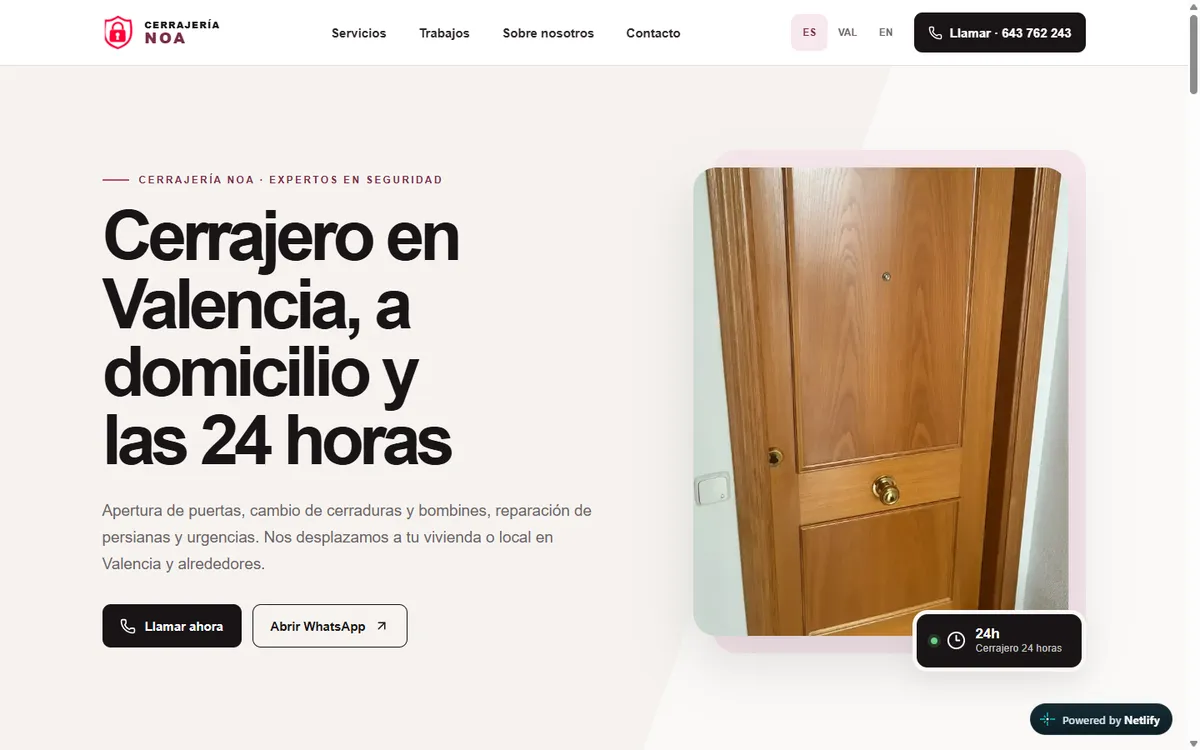
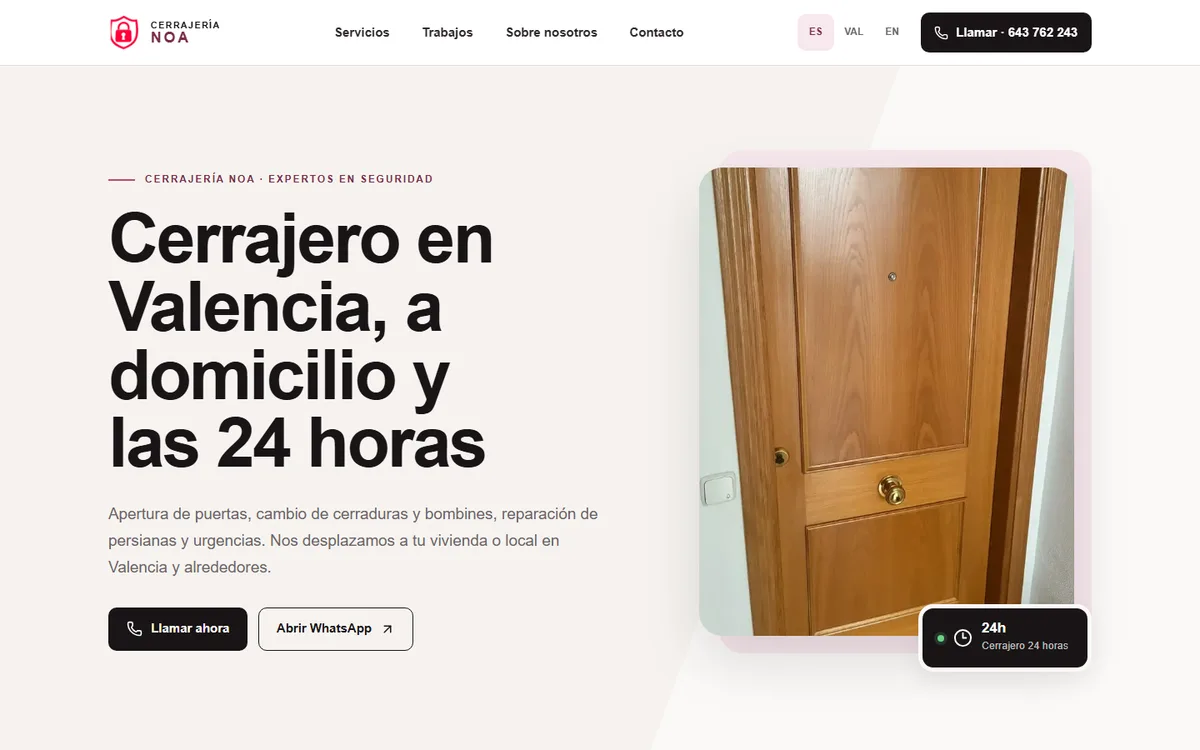
feat(projects): portadas, textos y carrusel de capturas
- Portada entera en la página de detalle, con el título encima
- Carrusel de capturas a todo el ancho; no se muestra si está vacío
- Tres capturas de Cerrajería NOA y portada nueva sin la insignia de Netlify
- Portadas de Digital Fit y ValveDex
- Textos de proyecto nuevos y Digital Fit con PostgreSQL

diff --git a/src/data/projects.ts b/src/data/projects.ts
@@ -1,4 +1,11 @@
 // Proyectos reales de Manuel (datos confirmados en docs/PROYECTOS.md y por Manuel, nov. 2026).
+export interface ProjectImage {
+  // Ruta dentro de public/ (capturas de 1200x750, mejor en .webp).
+  src: string;
+  // Descripción de lo que se ve, para lectores de pantalla.
+  alt: string;
+}
+
 export interface Project {
   id: string;
   title: string;
@@ -8,6 +15,8 @@ export interface Project {
   technologies: string[];
   status: "completed" | "in-progress" | "planned";
   image?: string;
+  // Más capturas para el carrusel de la página de detalle (opcional; sin ellas no se muestra).
+  gallery?: ProjectImage[];
   // Imagen para compartir en redes (JPG de 1200x630); sin ella se usa la general del sitio.
   ogImage?: string;
   repo?: string;
@@ -23,19 +32,33 @@ export const projects: Project[] = [
     title: "Cerrajería NOA",
     monogram: "NOA",
     description:
-      "Web para una cerrajería de Valencia: servicios, trabajos, contacto, tres idiomas (español, valenciano e inglés), mapa de Google Maps y acceso directo a WhatsApp.",
+      "Web de una cerrajería de Valencia con servicio a domicilio las 24 horas. Enseña los servicios y los trabajos realizados, está en español, valenciano e inglés, y permite llamar o escribir por WhatsApp en un toque.",
     technologies: ["Next.js", "React"],
     status: "completed",
     image: "/projects/cerrajeria-noa.webp",
+    gallery: [
+      {
+        src: "/projects/cerrajeria-noa-servicios.webp",
+        alt: "Sección de servicios de Cerrajería NOA, con tarjetas de apertura de puertas y cambio de bombín y cerradura",
+      },
+      {
+        src: "/projects/cerrajeria-noa-trabajos.webp",
+        alt: "Sección de trabajos realizados de Cerrajería NOA, con fotos de aperturas y persianas",
+      },
+      {
+        src: "/projects/cerrajeria-noa-cobertura.webp",
+        alt: "Sección de zona de cobertura de Cerrajería NOA, con el servicio a domicilio en Valencia y alrededores",
+      },
+    ],
     ogImage: "/projects/cerrajeria-noa-og.jpg",
     demo: "https://cerrajerianoa.es/es",
     personalContribution:
-      "La hice entera: diseño, desarrollo, idiomas, mapa, WhatsApp y publicación.",
+      "La hice entera para un cliente real: diseño, desarrollo, los tres idiomas, el mapa, el botón de WhatsApp y la publicación en su propio dominio (cerrajerianoa.es).",
     features: [
-      "Páginas de servicios, trabajos realizados y contacto",
-      "Tres idiomas: español, valenciano e inglés",
+      "Servicios y trabajos realizados, para que el cliente vea qué se hace antes de llamar",
+      "Español, valenciano e inglés",
       "Mapa de Google Maps con la ubicación",
-      "Botón de acceso directo a WhatsApp",
+      "Botones de llamada y de WhatsApp para contactar directamente",
     ],
   },
   {
@@ -43,26 +66,27 @@ export const projects: Project[] = [
     title: "Digital Fit",
     monogram: "DF",
     description:
-      "Proyecto final de DAW: aplicación web de entrenamiento con usuarios y roles, entrenamientos, comunidad, estadísticas, historial y lugares de entrenamiento.",
+      "Aplicación web para organizar el entrenamiento: encontrar centros y lugares públicos donde entrenar, crear y seguir rutinas, registrar lo que haces y ver tu progreso. Fue mi proyecto final de DAW y ahora la estoy renovando como Digital-Fit 2.0.",
     technologies: [
       "Angular",
       "TypeScript",
       "Java",
       "Spring Boot",
-      "MySQL",
+      "PostgreSQL",
       "Docker",
       "Leaflet",
     ],
     status: "in-progress",
+    image: "/projects/digital-fit.webp",
     repo: "https://github.com/Manuelklk03/Digital-Fit-Proyecto",
     personalContribution:
-      "API REST con Spring Boot, estructura del frontend en Angular y funcionamiento de la aplicación. Para los mapas con Leaflet me apoyé en IA.",
+      "Hice la API REST con Spring Boot, la estructura del frontend en Angular y el funcionamiento de la aplicación. Para los mapas con Leaflet me apoyé en IA. Por ahora se ejecuta en local con Docker; todavía no está publicada.",
     features: [
-      "Usuarios con roles",
-      "Creación y seguimiento de entrenamientos",
-      "Comunidad entre usuarios",
-      "Estadísticas e historial de entrenamientos",
-      "Mapa de lugares de entrenamiento con Leaflet",
+      "Registro e inicio de sesión, con roles de usuario y de administrador",
+      "Entrenamientos propios, copiados del catálogo o de la comunidad, y publicables para otros usuarios",
+      "Historial de entrenamientos realizados y estadísticas de actividad",
+      "Mapa con centros privados y lugares públicos (Leaflet y OpenStreetMap)",
+      "Tickets de soporte con conversación, gestionados por administradores",
     ],
   },
   {
@@ -70,14 +94,18 @@ export const projects: Project[] = [
     title: "ValveDex",
     monogram: "VDX",
     description:
-      "Enciclopedia interactiva de los videojuegos de Valve, empezando por Half-Life y sus expansiones: armas, mapas y personajes.",
+      "Enciclopedia interactiva de los videojuegos de Valve, inspirada en una Pokédex: sagas, juegos, lore, mapas, armas y personajes, cada dato con su fuente. Empiezo por Half-Life, Opposing Force y Blue Shift.",
     technologies: ["React", "Next.js", "TypeScript"],
     status: "in-progress",
+    image: "/projects/valvedex.webp",
     repo: "https://github.com/Manuelklk03/ValveDex",
-    personalContribution: "Proyecto personal que estoy desarrollando yo.",
+    personalContribution:
+      "Proyecto personal que desarrollo yo para reforzar React, TypeScript y Next.js con una aplicación completa. Sigue en desarrollo.",
     features: [
-      "Fichas de armas, mapas y personajes",
-      "Empieza por Half-Life y sus expansiones",
+      "Recorrido por niveles: universos, juegos, apartados y fichas",
+      "Cada universo y cada juego con su propia paleta de color",
+      "Fichas de armas, mapas y personajes con descripción y fuentes",
+      "Contenido por fases: primero Half-Life, Opposing Force y Blue Shift, después el resto de sagas",
     ],
   },
 ];
